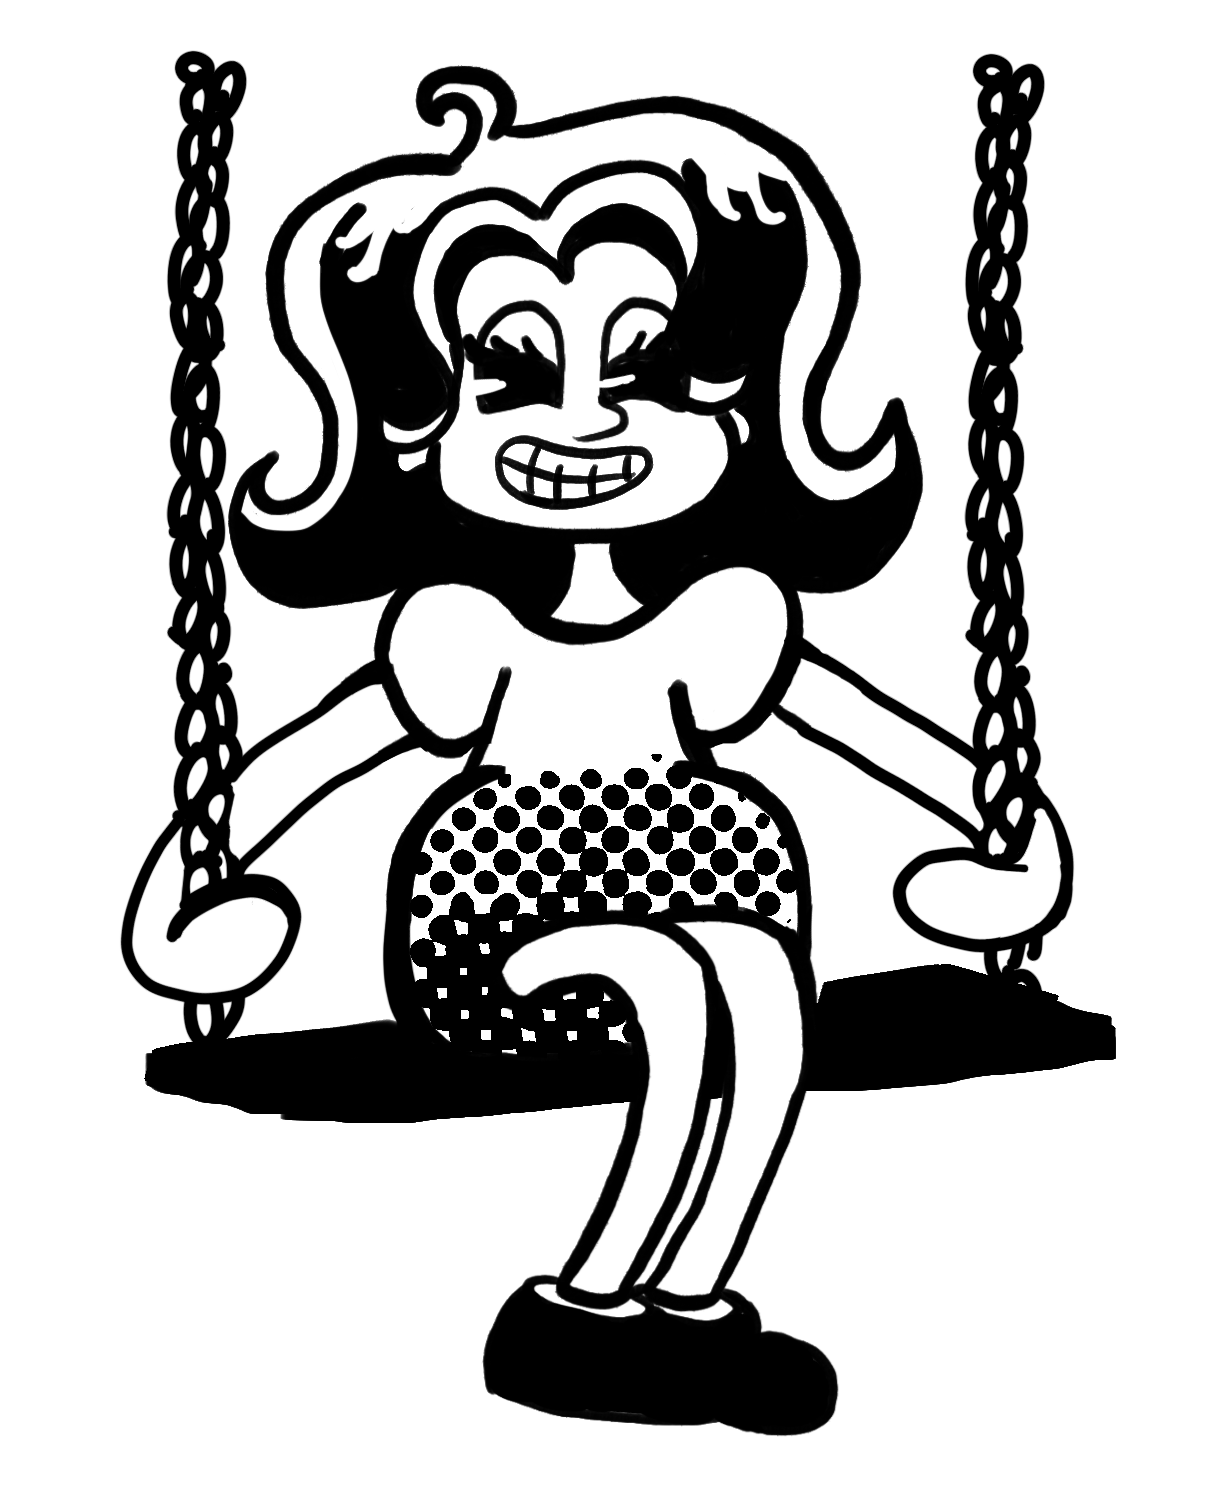
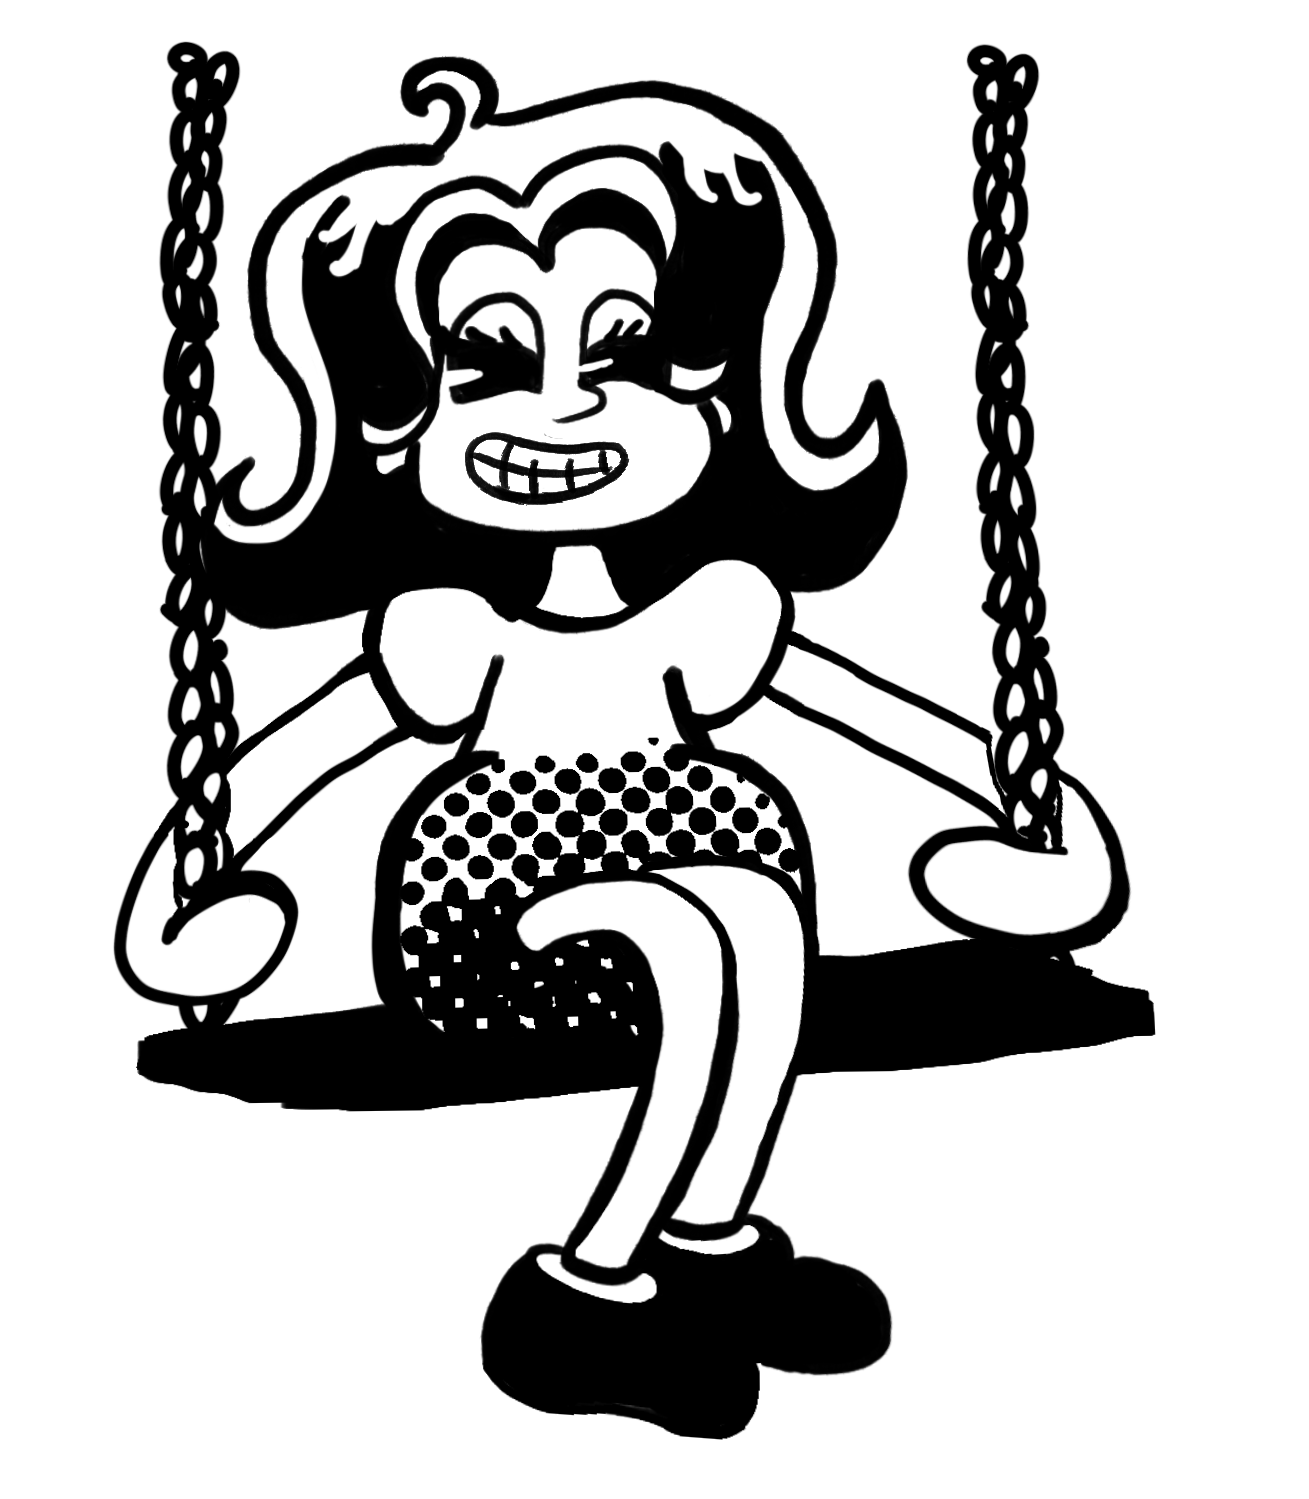
landing page cosmetic changes + added splash animation

Changed region(s): [[0.0614, 0.0307, 0.9511, 0.982], [0.4909, 0.9206, 0.5216, 0.9513]]

diff --git a/portfolio/src/content/hero.ts b/portfolio/src/content/hero.ts
@@ -2,6 +2,7 @@ import type { ImageMetadata } from "astro";
 
 import heroSceneSplash from "../assets/illustrations/hero-scene-splash.png";
 import heroSceneCharacter from "../assets/illustrations/hero-scene-character.png";
+import heroCharacterSprite from "../assets/illustrations/hero-character-sprite.webp";
 import heroCornerCat from "../assets/illustrations/hero-corner-cat.png";
 import buildingPulse from "../assets/illustrations/building-pulse.png";
 import buildingHackduke from "../assets/illustrations/building-hackduke.png";
@@ -22,13 +23,25 @@ export interface HeroContent {
   stamp: {
     /** Fallback only — StampBadge computes the live date client-side. */
     date: string;
-    price: string;
   };
   images: {
     /** Colourful shape burst behind the character; rotates + pulses. */
     sceneSplash: ImageMetadata;
-    /** Line-drawn character that sits on top of the splash. */
+    /** Line-drawn character that sits on top of the splash. Doubles as the
+     *  still/poster frame — it's the swing animation's rest frame (frame 10). */
     sceneCharacter: ImageMetadata;
+    /** The 17-frame swing loop as one sprite sheet (6 × 3 grid, left→right,
+     *  top→bottom, drawn at 12 fps). Same crop as sceneCharacter. */
+    sceneCharacterSprite: {
+      image: ImageMetadata;
+      columns: number;
+      rows: number;
+      frames: number;
+      fps: number;
+      /** 0-based frame the loop starts from and settles back on. Must match
+       *  the still in sceneCharacter. */
+      restFrame: number;
+    };
     sceneAlt: string;
     cornerCat: ImageMetadata;
     cornerCatAlt: string;
@@ -44,11 +57,18 @@ export const hero: HeroContent = {
   tagline: "bringing you BOLD designs from Duke University",
   stamp: {
     date: "AUG 02",
-    price: "10¢",
   },
   images: {
     sceneSplash: heroSceneSplash,
     sceneCharacter: heroSceneCharacter,
+    sceneCharacterSprite: {
+      image: heroCharacterSprite,
+      columns: 6,
+      rows: 3,
+      frames: 17,
+      fps: 12,
+      restFrame: 9,
+    },
     sceneAlt: "Line drawing of Makenna grinning on a swing",
     cornerCat: heroCornerCat,
     cornerCatAlt: "Cat mascot illustration",
